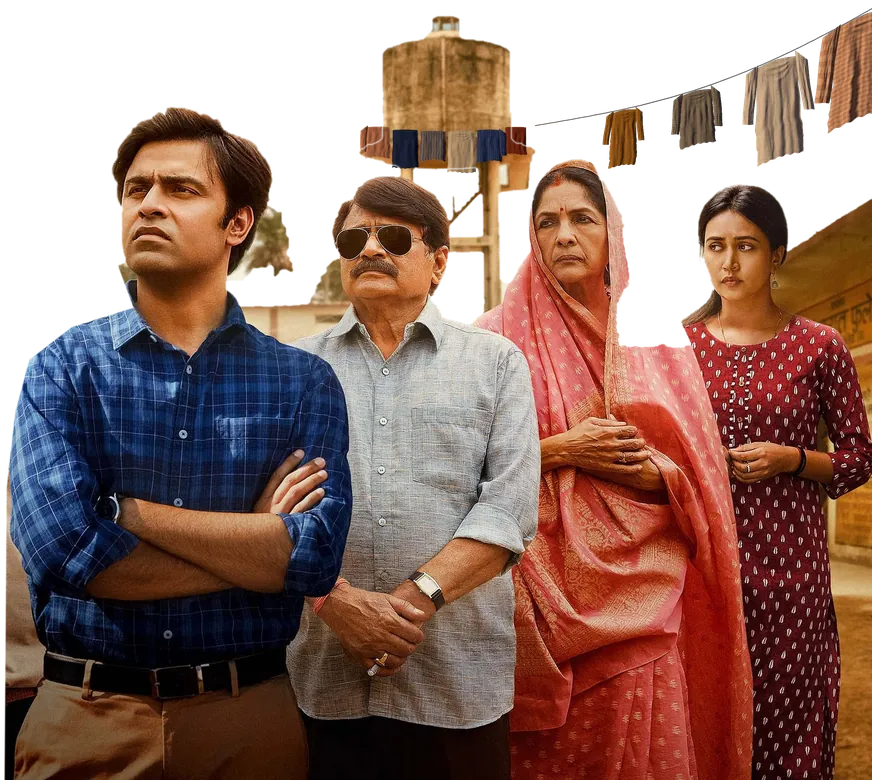
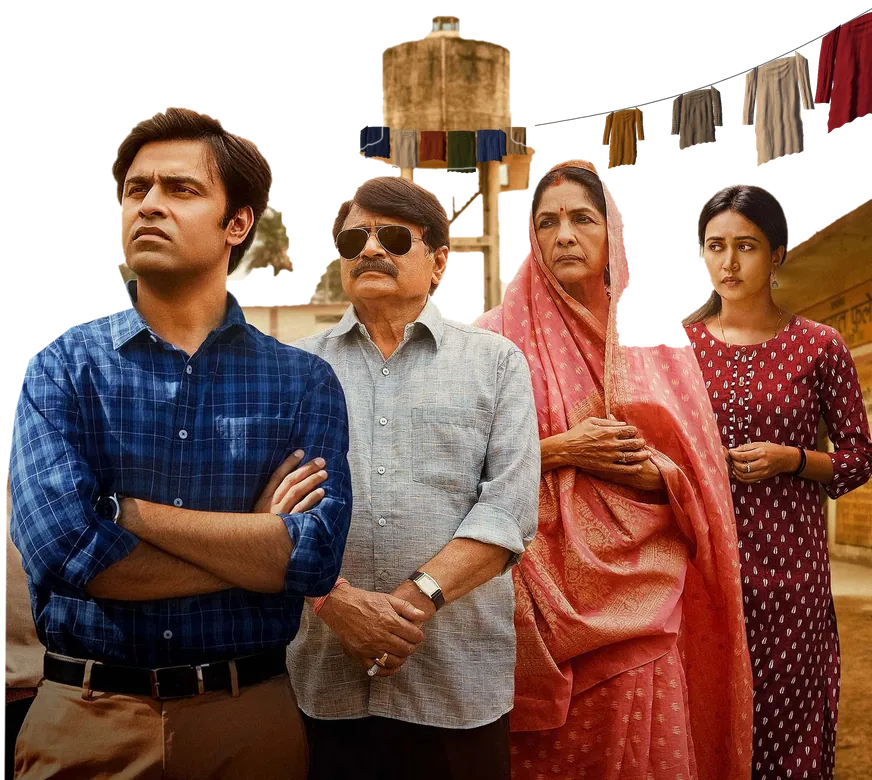
Phulera walk: every stop opens on a click, pieces open product pages
- Tanki: a click hangs the washing; each piece can be picked
- Deewar: a click repaints the slogan with a wipe
- Lauki: a click swaps in the gift box and folded clothes; each can be picked
- People in a scene open the product they are wearing
- Drawn clothes recoloured to match catalogue products

Changed region(s): [[0.9289, 0.0, 1.0, 0.1846], [0.4025, 0.1538, 0.6193, 0.2462]]

diff --git a/lab/phulera/intro.js b/lab/phulera/intro.js
@@ -33,6 +33,7 @@
       L: 'Files <b>nahi,</b>', L2: 'kurte <b>hain.</b>', side: 'l',
       line: 'The Panchayat office almirah. Open it and pick a kurta.',
       hint: ['Dekh raha hai, Binod? Click the almirah', 'Dekh raha hai, Binod? Tap the almirah'],
+      click: 1,
       door: [0.2952, 0.1655, 0.3966, 0.7114],
       picks: [
         { f: [0.3002, 0.1991, 0.1436, 0.5749], pid: 'handloom-khadi-kurta' },
@@ -52,7 +53,20 @@
     { n: '2', label: 'Tanki', tone: 'light', type: 'cut', thread: 'rgba(139,58,30,.9)', g: .12,
       L: 'Kapde <b>tanki</b>', L2: 'pe <b>sukh rahe.</b>', side: 'l',
       line: 'Where Sachiv ji and Rinki had their chai. The washing came later.',
-      hint: ['Hover over the tanki', 'Touch the tanki'],
+      hint: ['Click the tanki', 'Tap the tanki'],
+      click: 1, open: 'fade',
+      picks: [
+        { f: [0.4116, 0.1596, 0.0373, 0.0453], pid: 'neel-handloom-kurta', tag: 'On the tanki' },
+        { f: [0.448, 0.1647, 0.0335, 0.0532], pid: 'handloom-khadi-kurta', tag: 'On the tanki' },
+        { f: [0.4795, 0.1661, 0.034, 0.0426], pid: 'mitti-khadi-kurta', tag: 'On the tanki' },
+        { f: [0.5118, 0.1661, 0.036, 0.0574], pid: 'mehendi-cotton-kurta', tag: 'On the tanki' },
+        { f: [0.5449, 0.1634, 0.0377, 0.0467], pid: 'sachiv-check-shirt', tag: 'On the tanki' },
+        { f: [0.5781, 0.161, 0.0277, 0.0393], pid: 'jute-stripe-kurta', tag: 'On the tanki' },
+        { f: [0.6899, 0.1351, 0.0505, 0.0828], pid: 'prahlad-cotton-kurta', tag: 'On the line' },
+        { f: [0.7681, 0.1078, 0.0621, 0.0856], pid: 'pradhan-linen-shirt', tag: 'On the line' },
+        { f: [0.8501, 0.0629, 0.0853, 0.1522], pid: 'safed-cotton-kurta', tag: 'On the line' },
+        { f: [0.9325, 0.0139, 0.0687, 0.1587], pid: 'sachiv-bike-ride-shirt', tag: 'On the line' }
+      ],
       shop: ['Shop shirts', 'shop.html?c=shirts', 'shirts'],
       fit: { w: { h: .9, ax: 1, cx: 1.01, by: 1.0 }, p: { h: .6, ax: .5, cx: .5, by: .82 } },
       hot: [
@@ -64,17 +78,28 @@
     { n: '3', label: 'Deewar', tone: 'light', type: 'cut', thread: 'rgba(246,239,226,.95)', g: .2, streak: 1,
       L: 'Do <b>kurte,</b>', L2: 'meethi <b>kheer.</b>', side: 'l',
       line: '<span lang="hi">दो कुर्ते हैं मीठी खीर, उससे ज़्यादा अमीर।</span> Two kurtas are sweet kheer. Any more and you’re rich.',
-      hint: ['Hover over the wall', 'Touch the wall'],
+      hint: ['Click the wall', 'Tap the wall'],
+      click: 1, open: 'wipe',
       shop: ['Pick your two', 'shop.html?c=kurtas', 'kurtas'],
       fit: { w: { h: .66, ax: 1, cx: 1.09, by: .87 }, p: { h: .44, ax: .7, cx: .5, by: .74 } },
       hot: [
-        { w: [.7403, .6597, .2251, .25], tag: 'Fresh on the wall', pid: 'prahlad-cotton-kurta' },
+        { w: [.7403, .6597, .2251, .25], tag: 'Fresh on the wall', pid: 'prahlad-cotton-kurta', href: 'shop.html?c=kurtas' },
         { w: [.1342, .5278, .1299, .2917], tag: 'Sachiv ji is wearing', pid: 'sachiv-check-shirt' }
       ] },
     { n: '4', label: 'Lauki', tone: 'dark', thread: 'rgba(255,205,140,.95)', g: 0,
       L: 'Lauki <b>nahi,</b>', L2: 'gift <b>do.</b>', side: 'l',
       line: 'Bijli gayi. Pradhan ji gifts lauki. You can do one better.',
-      hint: ['Hover over the lauki', 'Touch the lauki'],
+      hint: ['Click the lauki', 'Tap the lauki'],
+      click: 1, open: 'fade',
+      picks: [
+        { f: [0.7357, 0.5122, 0.2653, 0.0509], fp: [0.3042, 0.3802, 0.6984, 0.0378], pid: 'handloom-khadi-kurta', tag: 'Instead of files' },
+        { f: [0.7259, 0.5503, 0.2751, 0.0509], fp: [0.2785, 0.4085, 0.7241, 0.0378], pid: 'sachiv-check-shirt', tag: 'Instead of files' },
+        { f: [0.7344, 0.5914, 0.2666, 0.0469], fp: [0.3008, 0.439, 0.7018, 0.0348], pid: 'prahlad-cotton-kurta', tag: 'Instead of files' },
+        { f: [0.7275, 0.6285, 0.2734, 0.0492], fp: [0.2828, 0.4665, 0.7198, 0.0365], pid: 'mehendi-cotton-kurta', tag: 'Instead of files' },
+        { f: [0.7314, 0.6678, 0.2695, 0.0469], fp: [0.2931, 0.4957, 0.7095, 0.0348], pid: 'mitti-khadi-kurta', tag: 'Instead of files' },
+        { f: [0.724, 0.7037, 0.277, 0.0503], fp: [0.2734, 0.5223, 0.7292, 0.0374], pid: 'neel-handloom-kurta', tag: 'Instead of files' },
+        { f: [0.7943, 0.3854, 0.2067, 0.1377], fp: [0.4584, 0.2861, 0.5441, 0.1022], pid: 'pradhan-gift-box', tag: 'Instead of a lauki' }
+      ],
       shop: ['Shop gift sets', 'shop.html?c=gifts', 'gifts'],
       focus: { w: [.85, .5], p: [.95, 0] },
       hot: [
@@ -244,7 +269,7 @@
       layoutHots();
     }
     ctx.setTransform(1, 0, 0, 1, 0, 0); ctx.clearRect(0, 0, cv.width, cv.height);
-    placeDoor(); if (doorOpen && cur === 0 && offB) showOpen();
+    placeDoor(); if (doorOpen && STOPS[cur].click && offB) showOpen();
   }
 
   /* ---------- Fluid ---------- */
@@ -403,65 +428,84 @@
     for (j = 0; j < ny; j++) sinJ[j] = 0.10 * Math.sin(j * 0.27 * cell / 9 - t * 1.7);
     for (j = 0; j < ny; j++) for (i = 0; i < nx; i++, k++) G[k] = 0.5 + (R - Dist[k]) / soft + (N[k] * amp + sinI[i] + sinJ[j]);
   }
-  /* ---------- The almirah: a click swings the doors open, then each kurta can be picked ---------- */
-  var alm = null, picksEl = null, pickImgs = [], doorOpen = false, doorBusy = false, pickNow = -1;
+  /* ---------- Click to open: the almirah's doors swing, the other scenes change in place. Then each piece can be picked. ---------- */
+  var alm = null, picksEl = null, pickImgs = [], doorOpen = false, doorBusy = false, pickNow = -1, picksFor = -1;
+  function curPicks() { return STOPS[cur].picks || []; }
   function buildDoor() {
-    if (alm) return;
-    alm = document.createElement('div'); alm.className = 'intro-alm';
-    alm.innerHTML = '<div class="d l"><img src="' + IMG + '1dl.webp" alt=""><i></i></div><div class="d r"><img src="' + IMG + '1dr.webp" alt=""><i></i></div>';
-    picksEl = document.createElement('div'); picksEl.className = 'intro-picks'; picksEl.innerHTML = '<div class="dim"></div>';
-    STOPS[0].picks.forEach(function (p, i) {
-      var im = new Image(); im.alt = '';
-      im.onload = function () {      /* keep the piece's own outline for exact hit tests */
-        try { var c = document.createElement('canvas'); c.width = im.naturalWidth; c.height = im.naturalHeight; var x = c.getContext('2d'); x.drawImage(im, 0, 0); p.a = x.getImageData(0, 0, c.width, c.height).data; p.aw = c.width; p.ah = c.height; } catch (e) {}
-      };
-      im.src = IMG + '1k' + i + '.webp';
-      picksEl.appendChild(im); pickImgs.push(im);
+    if (!picksEl) {
+      alm = document.createElement('div'); alm.className = 'intro-alm';
+      alm.innerHTML = '<div class="d l"><img src="' + IMG + '1dl.webp" alt=""><i></i></div><div class="d r"><img src="' + IMG + '1dr.webp" alt=""><i></i></div>';
+      picksEl = document.createElement('div'); picksEl.className = 'intro-picks';
+      figure.appendChild(alm); figure.appendChild(picksEl);
+    }
+    if (picksFor === cur) return;
+    picksFor = cur; picksEl.innerHTML = '<div class="dim"></div>'; pickImgs = [];
+    var n = STOPS[cur].n;
+    curPicks().forEach(function (p, i) {
+      if (!p.im) {
+        p.im = new Image(); p.im.alt = '';
+        p.im.onload = function () {      /* keep the piece's own outline for exact hit tests */
+          try { var c = document.createElement('canvas'); c.width = p.im.naturalWidth; c.height = p.im.naturalHeight; var x = c.getContext('2d'); x.drawImage(p.im, 0, 0); p.a = x.getImageData(0, 0, c.width, c.height).data; p.aw = c.width; p.ah = c.height; } catch (e) {}
+        };
+        p.im.src = IMG + n + 'k' + i + '.webp';
+      }
+      p.im.className = '';
+      picksEl.appendChild(p.im); pickImgs.push(p.im);
     });
-    figure.appendChild(alm); figure.appendChild(picksEl);
   }
   function placeDoor() {
-    if (!alm) return;
-    var st = STOPS[0], on = cur === 0 && st.a && !tr;
+    if (!picksEl) return;
+    var st = STOPS[cur], on = !!st.click && !!st.a && !tr && picksFor === cur;
     picksEl.style.display = on && doorOpen ? 'block' : 'none';
     if (!on) { alm.style.display = 'none'; return; }
-    var g = fitPlate(st), d = st.door;
-    var dm = picksEl.firstChild.style; dm.left = (g.x + d[0] * g.w) + 'px'; dm.top = (g.y + d[1] * g.h) + 'px'; dm.width = (d[2] * g.w) + 'px'; dm.height = (d[3] * g.h) + 'px';
-    alm.style.left = (g.x + d[0] * g.w) + 'px'; alm.style.top = (g.y + d[1] * g.h) + 'px'; alm.style.width = (d[2] * g.w) + 'px'; alm.style.height = (d[3] * g.h) + 'px';
-    st.picks.forEach(function (p, i) {
-      p.x = g.x + p.f[0] * g.w; p.y = g.y + p.f[1] * g.h; p.w = p.f[2] * g.w; p.h = p.f[3] * g.h;
+    var g = fitPlate(st), dm = picksEl.firstChild.style;
+    if (st.door) {
+      var d = st.door;
+      dm.display = ''; dm.left = (g.x + d[0] * g.w) + 'px'; dm.top = (g.y + d[1] * g.h) + 'px'; dm.width = (d[2] * g.w) + 'px'; dm.height = (d[3] * g.h) + 'px';
+      alm.style.left = (g.x + d[0] * g.w) + 'px'; alm.style.top = (g.y + d[1] * g.h) + 'px'; alm.style.width = (d[2] * g.w) + 'px'; alm.style.height = (d[3] * g.h) + 'px';
+    } else { dm.display = 'none'; alm.style.display = 'none'; }
+    curPicks().forEach(function (p, i) {
+      var f = (tall && p.fp) || p.f;
+      p.x = g.x + f[0] * g.w; p.y = g.y + f[1] * g.h; p.w = f[2] * g.w; p.h = f[3] * g.h;
       var im = pickImgs[i].style; im.left = p.x + 'px'; im.top = p.y + 'px'; im.width = p.w + 'px'; im.height = p.h + 'px';
     });
   }
-  function showOpen() {       /* the open almirah, drawn whole on the top canvas */
+  function showOpen() {       /* the opened scene, drawn whole on the top canvas */
     ctx.setTransform(1, 0, 0, 1, 0, 0); ctx.clearRect(0, 0, cv.width, cv.height); ctx.drawImage(offB, 0, 0);
     pbx0 = 0; pby0 = 0; pbx1 = cv.width; pby1 = cv.height; hasPrev = true;
   }
   function openDoor() {
-    if (doorOpen || doorBusy || cur !== 0 || busy || opening || !offB) return;
+    var st = STOPS[cur], at = cur, dur = 1050;
+    if (doorOpen || doorBusy || !st.click || busy || opening || !offB) return;
     buildDoor(); doorBusy = true; acted = true; clearTimeout(autoTimer); showPin(false);
     placeDoor();
-    alm.classList.remove('open'); alm.style.opacity = '1'; alm.style.display = 'block';
-    cv.style.transition = 'none'; cv.style.opacity = '0'; showOpen();
+    cv.style.transition = 'none'; cv.style.clipPath = '';
+    if (st.open === 'wipe') { cv.style.opacity = '1'; cv.style.clipPath = 'inset(0 100% 0 0)'; } else cv.style.opacity = '0';
+    showOpen();
     void cv.offsetWidth;
-    cv.style.transition = 'opacity .45s ease'; cv.style.opacity = '1';
-    alm.classList.add('open');
-    setTimeout(function () { if (alm) alm.style.opacity = '0'; }, 620);
+    if (st.door) {
+      alm.classList.remove('open'); alm.style.opacity = '1'; alm.style.display = 'block'; void alm.offsetWidth;
+      cv.style.transition = 'opacity .45s ease'; cv.style.opacity = '1';
+      alm.classList.add('open');
+      setTimeout(function () { if (alm) alm.style.opacity = '0'; }, 620);
+    } else if (st.open === 'wipe') {      /* a roller across the wall */
+      cv.style.transition = 'clip-path 1.2s cubic-bezier(.6, 0, .2, 1)'; cv.style.clipPath = 'inset(0 0 0 0)'; dur = 1250;
+    } else { cv.style.transition = 'opacity .7s ease'; cv.style.opacity = '1'; dur = 750; }
     setTimeout(function () {
-      doorBusy = false; if (cur !== 0 || tr || opening) return;
+      doorBusy = false; if (cur !== at || tr || opening) return;
       doorOpen = true; alm.style.display = 'none'; placeDoor();
-      /* a quick ripple through the rail shows the kurtas can be picked */
+      /* a quick ripple through the pieces shows they can be picked */
       pickImgs.forEach(function (im, i) { setTimeout(function () { if (!doorOpen) return; im.classList.add('peek'); setTimeout(function () { im.classList.remove('peek'); }, 260); }, 90 * i); });
-    }, 1050);
+    }, dur);
   }
   function resetDoor() {
     doorOpen = false; doorBusy = false; setPick(-1);
-    cv.style.transition = 'none'; cv.style.opacity = '';
+    cv.style.transition = 'none'; cv.style.opacity = ''; cv.style.clipPath = '';
     if (alm) { alm.style.display = 'none'; alm.classList.remove('open'); picksEl.style.display = 'none'; }
   }
   function pickAt(x, y) {
     if (!doorOpen) return -1;
-    var ps = STOPS[0].picks;
+    var ps = curPicks();
     for (var i = 0; i < ps.length; i++) {
       var p = ps[i], u = (x - pxC - p.x) / p.w, v = (y - pyC - p.y) / p.h;
       if (u < 0 || v < 0 || u >= 1 || v >= 1 || !p.a) continue;
@@ -470,9 +514,8 @@
     return -1;
   }
   function pickInfo(i) {
-    var p = STOPS[0].picks[i], pr = p.pid && window.PBP ? PBP.byId(p.pid) : null;
-    return pr ? { href: 'product.html?id=' + pr.id, tile: { tag: 'In the almirah', pid: pr.id } }
-              : { href: 'shop.html?c=kurtas', tile: { tag: 'In the almirah', name: p.name, note: 'See all kurtas', href: 'shop.html?c=kurtas', img: IMG + '1k' + i + '.webp' } };
+    var p = curPicks()[i];
+    return { href: 'product.html?id=' + p.pid, tile: { tag: p.tag || 'In the almirah', pid: p.pid } };
   }
   function setPick(i) {
     if (i === pickNow) return;
@@ -481,6 +524,10 @@
     intro.classList.toggle('pick-on', i >= 0); if (picksEl) picksEl.classList.toggle('has', i >= 0);
     if (i >= 0) { pickImgs[i].classList.add('on'); clearTimeout(tileTimer); setTile(pickInfo(i).tile, true); }
     else if (elWear) hideTileSoon();
+  }
+  function hotAt(x, y, from) {
+    for (var i = from; i < hots.length; i++) { var h = hots[i], a = (x - h.cx) / h.rx, b = (y - h.cy) / h.ry; if (a * a + b * b < 1) return i; }
+    return -1;
   }
 
   function startFlood(x, y, kind, data) {
@@ -621,7 +668,7 @@
   function arrive() {
     showPin(true);
     ghostHot = hots[0] || null; ghostStart = performance.now() + 500; nextGhost = 0;
-    if (STOPS[cur].door) { ghostStart = 0; buildDoor(); placeDoor(); clearTimeout(autoTimer); autoTimer = setTimeout(function () { if (!acted) openDoor(); }, 4200); }
+    if (STOPS[cur].click) { ghostStart = 0; buildDoor(); placeDoor(); clearTimeout(autoTimer); autoTimer = setTimeout(function () { if (!acted) openDoor(); }, 4200); }
     /* Quietly fetch the next stop so it is ready when asked for, unless the connection is slow. */
     var c = navigator.connection, slow = c && /(^|-)[23]g/.test(c.effectiveType || '');
     if (cur + 1 < STOPS.length && !slow) setTimeout(function () {
@@ -683,7 +730,7 @@
           var hq = hots[i], qa = (px - hq.cx) / hq.rx, qb = (py - hq.cy) / hq.ry;
           if (qa * qa + qb * qb < 1) { over = i; break; }
         }
-        if (!STOPS[cur].door) splat(px, py, over >= 0 ? rBrush * 1.08 : rBrush * 0.9, 1.3, 0, 0);
+        if (!STOPS[cur].click) splat(px, py, over >= 0 ? rBrush * 1.08 : rBrush * 0.9, 1.3, 0, 0);
       }
       if (sticky && now > sticky) { sticky = 0; stuck = -1; }
       if (stuck >= 0 && over < 0) over = stuck;
@@ -696,12 +743,12 @@
       else hold = Math.max(0, hold - 0.07 * f);
       if (hold > 0 && holdHot >= 0 && hots[holdHot]) {
         var hh = hots[holdHot], gr = smoothstep(hold);
-        if (!STOPS[cur].door) splatE(hh.gx, hh.gy, hh.grx * gr, hh.gry * gr, 1.35);
-        if (hold > 0.35 && pinShown && !STOPS[cur].door) showPin(false);
+        if (!STOPS[cur].click) splatE(hh.gx, hh.gy, hh.grx * gr, hh.gry * gr, 1.35);
+        if (hold > 0.35 && pinShown && !STOPS[cur].click) showPin(false);
       }
     }
 
-    if (!STOPS[cur].door) { step(f, now); if (dirty) { trace(); draw(); dirty = false; } }
+    if (!STOPS[cur].click) { step(f, now); if (dirty) { trace(); draw(); dirty = false; } }
 
     /* Pradhan ji's stop: the tile follows what he is wearing. */
     var st = STOPS[cur];
@@ -761,7 +808,8 @@
   intro.addEventListener('pointermove', function (e) {
     var x = e.clientX, y = e.clientY;
     if (!opening && !busy) {
-      if (STOPS[cur].door) { setPick(pickAt(x, y)); if (!doorOpen && hots[0]) { var qa = (x - hots[0].cx) / hots[0].rx, qb = (y - hots[0].cy) / hots[0].ry; intro.classList.toggle('pick-on', qa * qa + qb * qb < 1); } }
+      if (STOPS[cur].click) { setPick(pickAt(x, y)); if (pickNow < 0) intro.classList.toggle('pick-on', hotAt(x, y, doorOpen ? 1 : 0) >= 0 || (doorOpen && !!hots[0] && !!hots[0].d.href && hotAt(x, y, 0) === 0)); }
+      else if (STOPS[cur].wear) { intro.classList.toggle('pick-on', hotAt(x, y, 0) === 0); }
       else if (px !== null && ptrInside) paint(px, py, x, y); else splat(x, y, rBrush * 0.9, 1.6, 0, 0);
       ptrSeen = true; lastInput = e.timeStamp;
       if (e.pointerType === 'mouse') noteAct();
@@ -796,17 +844,25 @@
       if (!onUi && adx > ady && adx > vw * (swipeOnHot ? 0.6 : 0.42) && adx / dur > 0.3) { if (dx < 0) next(e.clientX, e.clientY); else prev(); return; }
     }
     /* A tap on an object opens it and keeps it open for a moment, with its product in the tile. */
-    if (!onUi && adx < 12 && ady < 12 && STOPS[cur].door && !busy && !opening) {
-      if (!doorOpen) {
-        var h0 = hots[0], a0 = h0 ? (e.clientX - h0.cx) / h0.rx : 9, b0 = h0 ? (e.clientY - h0.cy) / h0.ry : 9;
-        if (a0 * a0 + b0 * b0 < 1.3) { openDoor(); return; }
-      } else {
-        var pk = pickAt(e.clientX, e.clientY);
-        if (pk >= 0) {       /* mouse: the hovered kurta opens its page. Touch: first tap picks it, second opens it. */
-          if (e.pointerType === 'mouse' || pk === pickNow) { follow(pickInfo(pk).href, e.clientX, e.clientY); return; }
+    if (!onUi && adx < 12 && ady < 12 && !busy && !opening) {
+      var cx_ = e.clientX, cy_ = e.clientY, mouse = e.pointerType === 'mouse', st_ = STOPS[cur];
+      if (st_.click) {
+        var pk = pickAt(cx_, cy_);
+        if (pk >= 0) {       /* mouse: the hovered piece opens its page. Touch: first tap picks it, second opens it. */
+          if (mouse || pk === pickNow) { follow(pickInfo(pk).href, cx_, cy_); return; }
           setPick(pk); return;
         }
         setPick(-1);
+        /* someone in the picture: what they are wearing */
+        var hp = hotAt(cx_, cy_, 1);
+        if (hp >= 0 && (mouse || stuck === hp)) { follow('product.html?id=' + hots[hp].d.pid, cx_, cy_); return; }
+        if (hp < 0) {
+          var h0 = hots[0], a0 = h0 ? (cx_ - h0.cx) / h0.rx : 9, b0 = h0 ? (cy_ - h0.cy) / h0.ry : 9, in0 = a0 * a0 + b0 * b0 < 1.3;
+          if (!doorOpen) { if (in0) { openDoor(); return; } }
+          else if (in0 && h0.d.href) { follow(h0.d.href, cx_, cy_); return; }
+        }
+      } else if (st_.wear && (mouse || stuck === 0) && hotAt(cx_, cy_, 0) === 0) {
+        follow('product.html?id=' + st_.wear[wearState], cx_, cy_); return;
       }
     }
     if (!onUi && adx < 12 && ady < 12) {

diff --git a/lab/phulera/index.html b/lab/phulera/index.html
@@ -13,7 +13,7 @@
 <link rel="stylesheet" href="https://fonts.googleapis.com/css2?family=Inter+Tight:wght@300;400;700&display=swap">
 <script>(function(){try{var d=document.documentElement,m=matchMedia('(prefers-reduced-motion: reduce)').matches,c=navigator.connection,s=c&&(c.saveData||/2g/.test(c.effectiveType||'')),n=performance.getEntriesByType('navigation')[0],t=n&&n.type,b=location.href.replace(/[^/]*([?#].*)?$/,''),i=document.referrer.indexOf(b)===0;if(m||s||location.hash||t==='back_forward'||(t==='navigate'&&i))return;d.classList.add('intro-on','intro-lock');var v=innerWidth/innerHeight<.85?'p':Math.max(innerWidth,innerHeight)*(devicePixelRatio||1)>1300?'w':'m';['a','b'].forEach(function(x){var l=document.createElement('link');l.rel='preload';l.as='image';l.href='assets/img/op/1'+x+'-'+(v==='w'?'w':'m')+'.webp';document.head.appendChild(l)})}catch(e){}})()</script>
 <link rel="stylesheet" href="lab/phulera/intro.css?v=e7382ef7">
-<script src="lab/phulera/intro.js?v=4ef69f3d" defer></script>
+<script src="lab/phulera/intro.js?v=90921f57" defer></script>
 <link rel="stylesheet" href="assets/css/site.css?v=5c0dcf25">
 </head>
 <body>
